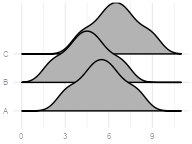
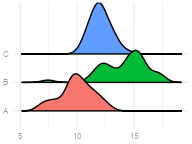
修复密度线缩略图糊成灰块
- density_line 改用线条脊线（fill=NA）表现，不再整块填充
- density_ridges 系列改用真实分布数据 + 分组填色
- 缓存版本 v9→v10

diff --git a/frontend/src/components/GeomChipPicker.vue b/frontend/src/components/GeomChipPicker.vue
@@ -8,7 +8,7 @@ const emit = defineEmits(['pick'])
 const q = ref('')
 
 const base = import.meta.env.BASE_URL || '/'
-const thumb = (name) => `${base}geom-thumbs/${name}.png?v=9`
+const thumb = (name) => `${base}geom-thumbs/${name}.png?v=10`
 
 // 分组模式记忆（默认图形族）
 const MODE_KEY = 'ggplotgui-geom-mode'
